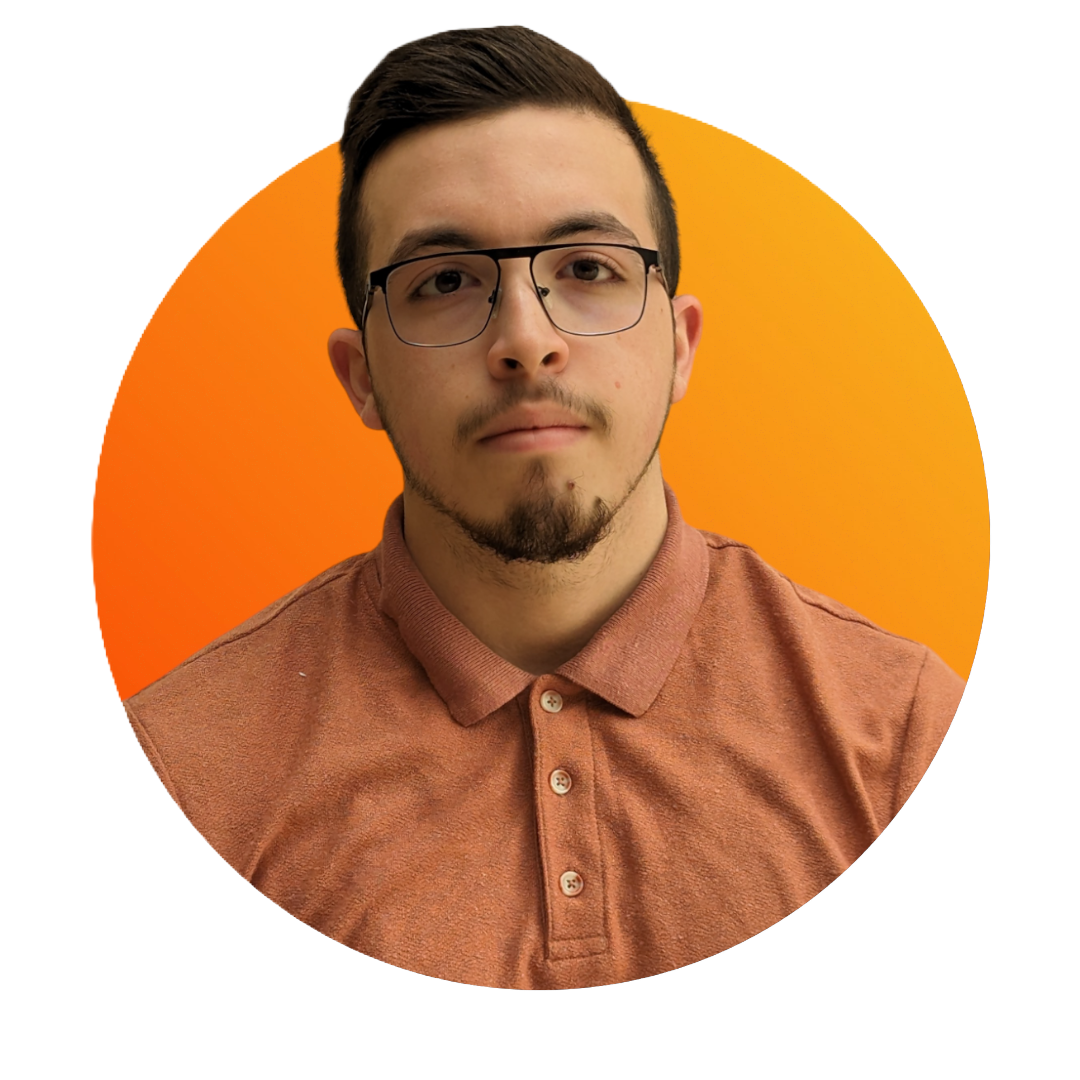
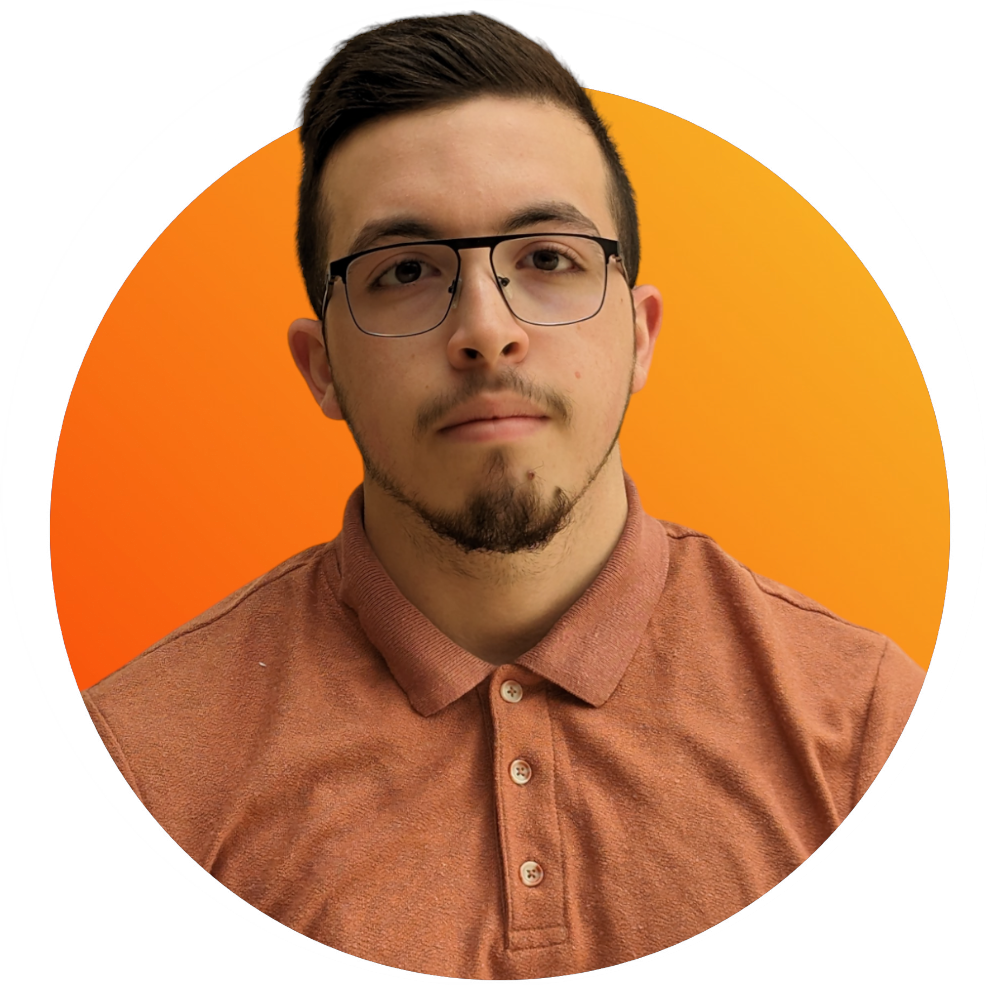
home page

Changed region(s): [[0.0304, 0.0, 0.9726, 1.0]]

diff --git a/lib/sections/home/home_mobile.dart b/lib/sections/home/home_mobile.dart
@@ -1,5 +1,6 @@
 import 'package:animated_text_kit/animated_text_kit.dart';
 import 'package:flutter/material.dart';
+import 'package:hachemi_ibrahim_portfolio/animations/entrance_fader.dart';
 import 'package:hachemi_ibrahim_portfolio/configs/configs.dart';
 
 import 'package:hachemi_ibrahim_portfolio/utils/utils.dart';
@@ -14,87 +15,100 @@ class HomeMobile extends StatelessWidget {
 
     return SizedBox(
       height: size.height * 1.02,
-      child: Stack(
+      child: Column(
         children: [
-          Positioned(
-            bottom: 0.0,
-            right: -AppDimensions.normalize(25),
-            child: Opacity(
-              opacity: 0.9,
-              child: Image.asset(
-                StaticUtils.blackWhitePhoto,
-                height: AppDimensions.normalize(150),
+          Center(
+            child: Container(
+              margin: EdgeInsets.fromLTRB(
+                AppDimensions.normalize(30),
+                AppDimensions.normalize(80),
+                0,
+                0,
+              ),
+              child: Column(
+                crossAxisAlignment: CrossAxisAlignment.start,
+                children: [
+                  Row(
+                    mainAxisSize: MainAxisSize.min,
+                    children: [
+                      Text(
+                        "HEY THERE! ",
+                        style: AppText.b2!.copyWith(
+                          fontFamily: 'Montserrat',
+                        ),
+                      ),
+                      Space.x!,
+                      Image.asset(
+                        StaticUtils.hi,
+                        height: AppDimensions.normalize(10),
+                      ),
+                    ],
+                  ),
+                  Space.y!,
+                  Text(
+                    "Hachemi",
+                    style: AppText.h3!.copyWith(
+                      fontFamily: 'Montserrat',
+                      fontWeight: FontWeight.w100,
+                    ),
+                  ),
+                  Text(
+                    "Ibrahim",
+                    style: AppText.h3b!.copyWith(
+                      height: 1,
+                    ),
+                  ),
+                  Space.y!,
+                  Row(
+                    children: [
+                      Icon(
+                        Icons.play_arrow_rounded,
+                        color: AppTheme.c!.primary!,
+                      ),
+                      AnimatedTextKit(
+                        animatedTexts: [
+                          TyperAnimatedText(
+                            ' Flutter Developer',
+                            speed: const Duration(milliseconds: 50),
+                            textStyle: AppText.b1,
+                          ),
+                          TyperAnimatedText(
+                            ' Ai/Ml Enthusiast',
+                            speed: const Duration(milliseconds: 50),
+                            textStyle: AppText.b1,
+                          ),
+                        ],
+                        repeatForever: true,
+                        isRepeatingAnimation: true,
+                      ),
+                    ],
+                  ),
+                  Space.y!,
+                  const SocialLinks(),
+                ],
               ),
             ),
           ),
-          Container(
-            margin: EdgeInsets.fromLTRB(
-              AppDimensions.normalize(10),
-              AppDimensions.normalize(40),
-              0,
-              0,
-            ),
-            child: Column(
-              crossAxisAlignment: CrossAxisAlignment.start,
-              children: [
-                Row(
-                  mainAxisSize: MainAxisSize.min,
-                  children: [
-                    Text(
-                      "HEY THERE! ",
-                      style: AppText.b2!.copyWith(
-                        fontFamily: 'Montserrat',
-                      ),
-                    ),
-                    Space.x!,
-                    Image.asset(
-                      StaticUtils.hi,
-                      height: AppDimensions.normalize(10),
-                    ),
-                  ],
-                ),
-                Space.y!,
-                Text(
-                  "Hachemi",
-                  style: AppText.h3!.copyWith(
-                    fontFamily: 'Montserrat',
-                    fontWeight: FontWeight.w100,
+          // SizedBox(
+          //   height: size.height * 0.4,
+          // ),
+          Align(
+            child: Positioned(
+              right: 0,
+              child: Opacity(
+                opacity: 0.9,
+                child: EntranceFader(
+                  offset: const Offset(0, 0),
+                  delay: const Duration(seconds: 1),
+                  duration: const Duration(milliseconds: 800),
+                  child: Image.asset(
+                    StaticUtils.blackWhitePhoto,
+                    height: size.width < 1000
+                        ? size.height * 0.3
+                        : size.height * 0.4,
                   ),
                 ),
-                Text(
-                  "Ibrahim",
-                  style: AppText.h3b!.copyWith(
-                    height: 1,
-                  ),
-                ),
-                Space.y!,
-                Row(
-                  children: [
-                    Icon(
-                      Icons.play_arrow_rounded,
-                      color: AppTheme.c!.primary!,
-                    ),
-                    AnimatedTextKit(
-                      animatedTexts: [
-                        TyperAnimatedText(
-                          ' Flutter Developer',
-                          speed: const Duration(milliseconds: 50),
-                          textStyle: AppText.b1,
-                        ),
-                        TyperAnimatedText(
-                          ' Ai/Ml Enthusiast',
-                          speed: const Duration(milliseconds: 50),
-                          textStyle: AppText.b1,
-                        ),
-                      ],
-                      repeatForever: true,
-                      isRepeatingAnimation: true,
-                    ),
-                  ],
-                ),
-                Space.y!,
-                const SocialLinks(),
-              ],
+              ),
             ),
           ),
         ],

diff --git a/lib/sections/home/home_tab.dart b/lib/sections/home/home_tab.dart
@@ -17,20 +17,22 @@ class HomeTab extends StatelessWidget {
       height: size.height * 1.02,
       child: Stack(
         children: [
-          Positioned(
-            bottom: 0,
-            right: 0,
-            child: Opacity(
-              opacity: 0.9,
-              child: EntranceFader(
-                offset: const Offset(0, 0),
-                delay: const Duration(seconds: 1),
-                duration: const Duration(milliseconds: 800),
-                child: Image.asset(
-                  StaticUtils.blackWhitePhoto,
-                  height: size.width < 1200
-                      ? size.height * 0.75
-                      : size.height * 0.85,
+          Align(
+            alignment: Alignment.centerRight,
+            child: Positioned(
+              right: 0,
+              child: Opacity(
+                opacity: 0.9,
+                child: EntranceFader(
+                  offset: const Offset(0, 0),
+                  delay: const Duration(seconds: 1),
+                  duration: const Duration(milliseconds: 800),
+                  child: Image.asset(
+                    StaticUtils.blackWhitePhoto,
+                    height: size.width < 1200
+                        ? size.height * 0.4
+                        : size.height * 0.5,
+                  ),
                 ),
               ),
             ),
@@ -38,7 +40,7 @@ class HomeTab extends StatelessWidget {
           Container(
             margin: EdgeInsets.fromLTRB(
               AppDimensions.normalize(30),
-              AppDimensions.normalize(50),
+              AppDimensions.normalize(80),
               0,
               0,
             ),

diff --git a/lib/utils/circle_clipper.dart b/lib/utils/circle_clipper.dart
@@ -1,0 +1,12 @@
+import 'package:flutter/material.dart';
+
+class CircleClipper extends CustomClipper<Rect> {
+  @override
+  Rect getClip(Size size) => Rect.fromCircle(
+        center: Offset(size.width / 2, size.height / 2),
+        radius: size.width / 2,
+      );
+
+  @override
+  bool shouldReclip(covariant CustomClipper<Rect> oldClipper) => false;
+}

diff --git a/lib/widget/navbar_logo.dart b/lib/widget/navbar_logo.dart
@@ -2,7 +2,7 @@ import 'package:flutter/material.dart';
 import 'package:hachemi_ibrahim_portfolio/configs/app_typography.dart';
 
 class NavBarLogo extends StatelessWidget {
-  const NavBarLogo({Key? key}) : super(key: key);
+  const NavBarLogo({super.key});
 
   @override
   Widget build(BuildContext context) {
